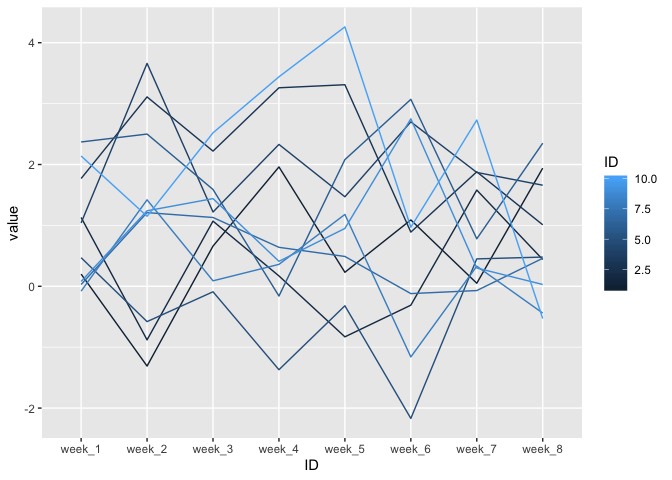
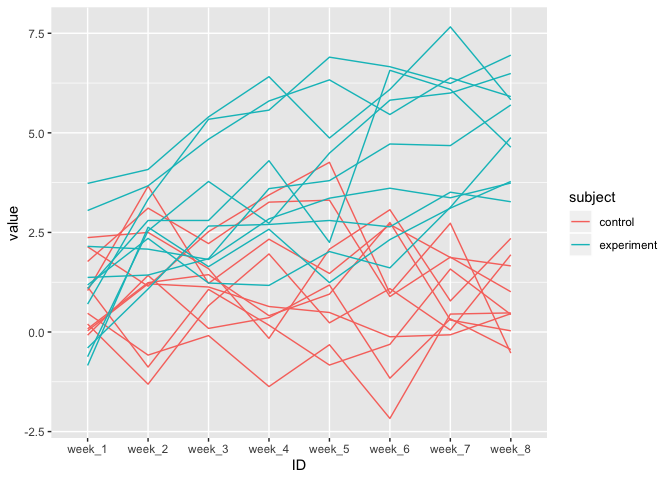
with inline r

diff --git a/p8105_hw5_ss5929.md b/p8105_hw5_ss5929.md
@@ -9,14 +9,14 @@ Shuyi SHEN
 library(tidyverse)
 ```
 
-    ## ── Attaching packages ──────────────────────────────────── tidyverse 1.2.1 ──
+    ## ── Attaching packages ────────────────────────────────── tidyverse 1.2.1 ──
 
     ## ✔ ggplot2 3.2.1     ✔ purrr   0.3.2
     ## ✔ tibble  2.1.3     ✔ dplyr   0.8.3
     ## ✔ tidyr   1.0.0     ✔ stringr 1.4.0
     ## ✔ readr   1.3.1     ✔ forcats 0.4.0
 
-    ## ── Conflicts ─────────────────────────────────────── tidyverse_conflicts() ──
+    ## ── Conflicts ───────────────────────────────────── tidyverse_conflicts() ──
     ## ✖ dplyr::filter() masks stats::filter()
     ## ✖ dplyr::lag()    masks stats::lag()
 
@@ -24,6 +24,7 @@ library(tidyverse)
 library(purrr)
 library(ggplot2)
 library(broom)
+library(stringr)
 
 set.seed(10)
 
@@ -31,29 +32,44 @@ iris_with_missing = iris %>%
   map_df(~replace(.x, sample(1:150, 20), NA)) %>%
   mutate(Species = as.character(Species)) 
 
-fill_miss = function(x){
+mean(iris_with_missing$Sepal.Length,na.rm=T)
+```
 
-  mean_value=mean(x,na.rm = TRUE)
+    ## [1] 5.819231
+
+``` r
+fill_miss = function(x){
   
   if(is.numeric(x)){
+    mean_value=mean(x,na.rm = TRUE)
     replace_na(x,mean_value)
   }else if(is.character(x)){
     replace_na(x,"virginica")
   }
 }
 
-iris_fill_miss = map(iris_with_missing,fill_miss) 
+iris_fill_miss = map(iris_with_missing,fill_miss) %>% bind_cols()
+iris_fill_miss %>% view
 ```
 
-    ## Warning in mean.default(x, na.rm = TRUE): argument is not numeric or
-    ## logical: returning NA
+*comment*
+
+**iris**
+
+There are 5 rows and 150 columns in the `iris` dataset. The mean of
+`Sepal.Length` is `5.82`, `Sepal.Width` is `3.08`, `Petal.Length` is
+`3.77` and `Petal.Width` is `1.19`
 
 ## Problem 2
 
 ``` r
 all_files = list.files(path="data",full.names = T) 
 
-longi_data = all_files %>% map(read_csv) %>% reduce(rbind)
+
+longi_data = all_files %>% 
+  map(read_csv) %>%
+  reduce(rbind) %>% 
+  cbind(all_files) 
 ```
 
     ## Parsed with column specification:
@@ -278,30 +294,37 @@ longi_data = all_files %>% map(read_csv) %>% reduce(rbind)
     ## )
 
 ``` r
-longi_table = longi_data %>% 
-                   mutate(
-                     ID=c(1:10,1:10),
+longi_table = longi_data %>%
+              rename(subject=all_files) %>% 
+              transform(subject=str_replace(subject,"data/","")) %>% 
+              transform(subject=str_replace(subject,".csv","")) %>% 
+              mutate(
                      sample=c(rep("control",10),rep("experiment",10))
                    )
 
-longi_pivot=longi_table %>% 
+longi_pivot=longi_table %>%
                pivot_longer(
                  week_1:week_8,
                  names_to = "week_num",
                  values_to = "value"
-               ) 
+               )
+  
 
 longi_pivot %>% 
-  filter(sample=="control") %>% 
-  ggplot(aes(x=week_num,y=value,group=ID))+
-  geom_line(aes(color=ID))+
+  ggplot(aes(x=week_num,y=value,color=sample))+
+  geom_line(aes(group=subject))+
   labs(
+    color = "subject",
     x="ID",
     y="value"
   )
 ```
 
 ![](p8105_hw5_ss5929_files/figure-gfm/unnamed-chunk-2-1.png)<!-- -->
+*comment*
+
+From the plot, we can see that control group will actually remain at a
+steady level while the experiment group will increase gradually.
 
 ## Problem 3
 
@@ -460,10 +483,20 @@ sim_results %>%
 ```
 
 ![](p8105_hw5_ss5929_files/figure-gfm/unnamed-chunk-5-1.png)<!-- -->
+*comment*
 
-### second plot
+From the plot, we can see that as the power increases as the effect size
+of beta1 increases. When beta1 equals 0, the proportion indicates alpha
+with different meaning of rest values. Therefore, I do not include it in
+the plot.
 
 ``` r
+reject_results = sim_results %>%
+  filter(decision=="reject null") %>%
+  select(estimate,true_value) %>% 
+  group_by(true_value) %>% 
+  summarise(mean=mean(estimate))
+
 sim_results %>%
   select(estimate,true_value) %>% 
   group_by(true_value) %>% 
@@ -478,6 +511,10 @@ sim_results %>%
 ```
 
 ![](p8105_hw5_ss5929_files/figure-gfm/unnamed-chunk-6-1.png)<!-- -->
+*comment*
+
+From the plot, we can see the average of beta1\_hat is approximately
+equal to the true value.
 
 ``` r
 sim_results %>%
@@ -494,4 +531,10 @@ sim_results %>%
   )
 ```
 
-![](p8105_hw5_ss5929_files/figure-gfm/unnamed-chunk-6-2.png)<!-- -->
+![](p8105_hw5_ss5929_files/figure-gfm/unnamed-chunk-7-1.png)<!-- -->
+*comment*
+
+When null hypothesis is rejected, the sample average of beta1\_hat is
+not approximately to the true value of beta\_1. This is because when
+beta1 is small, we reject by chance and when beta1 increases, the
+proportion of reject will also inrease.
